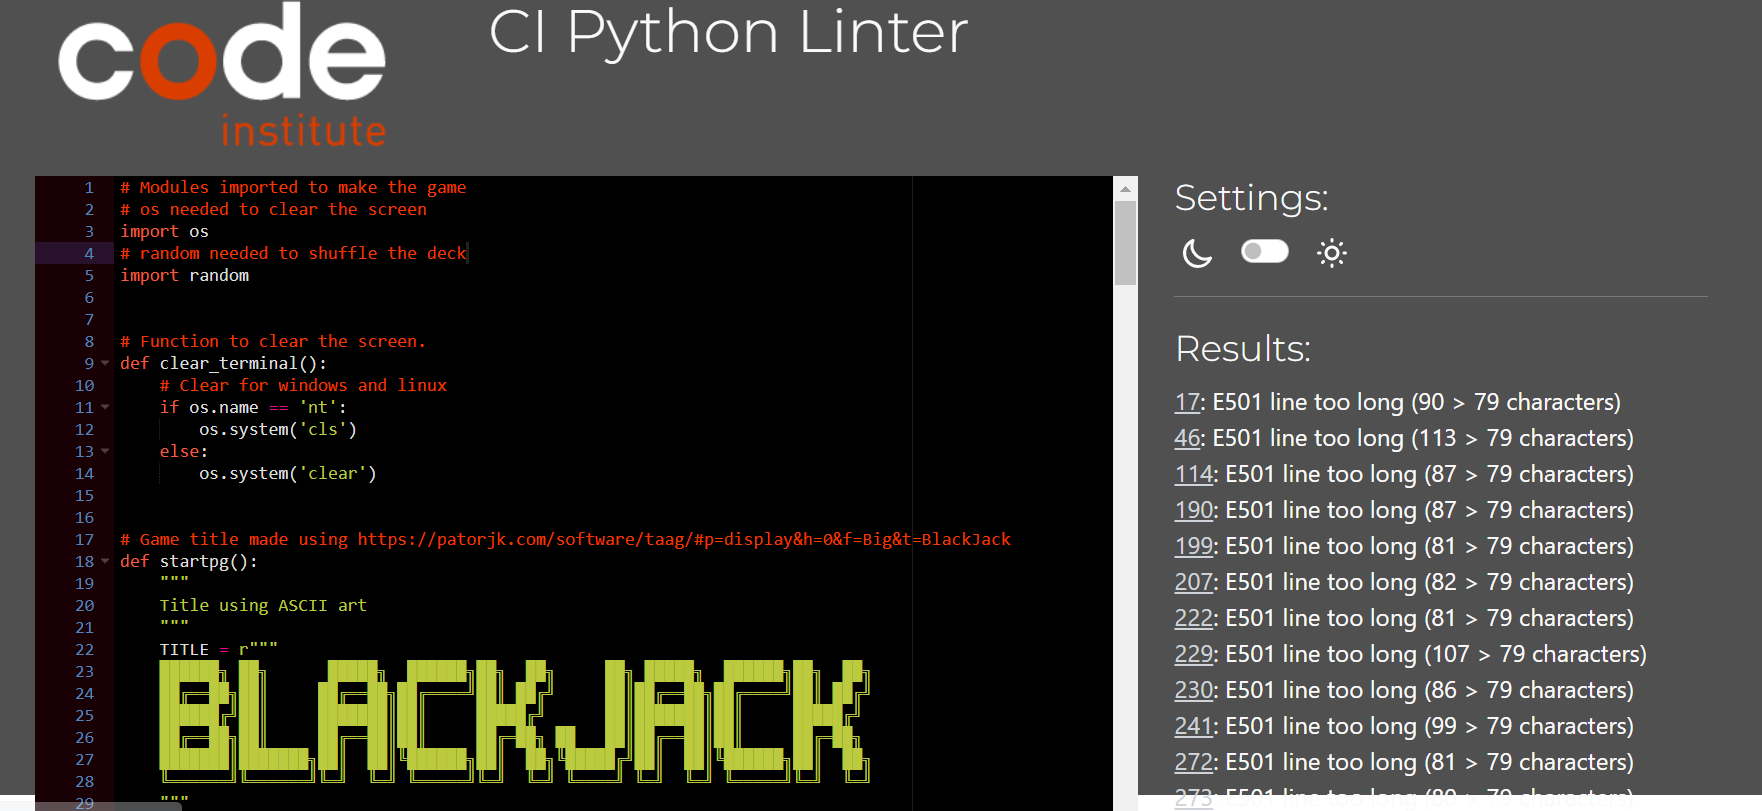
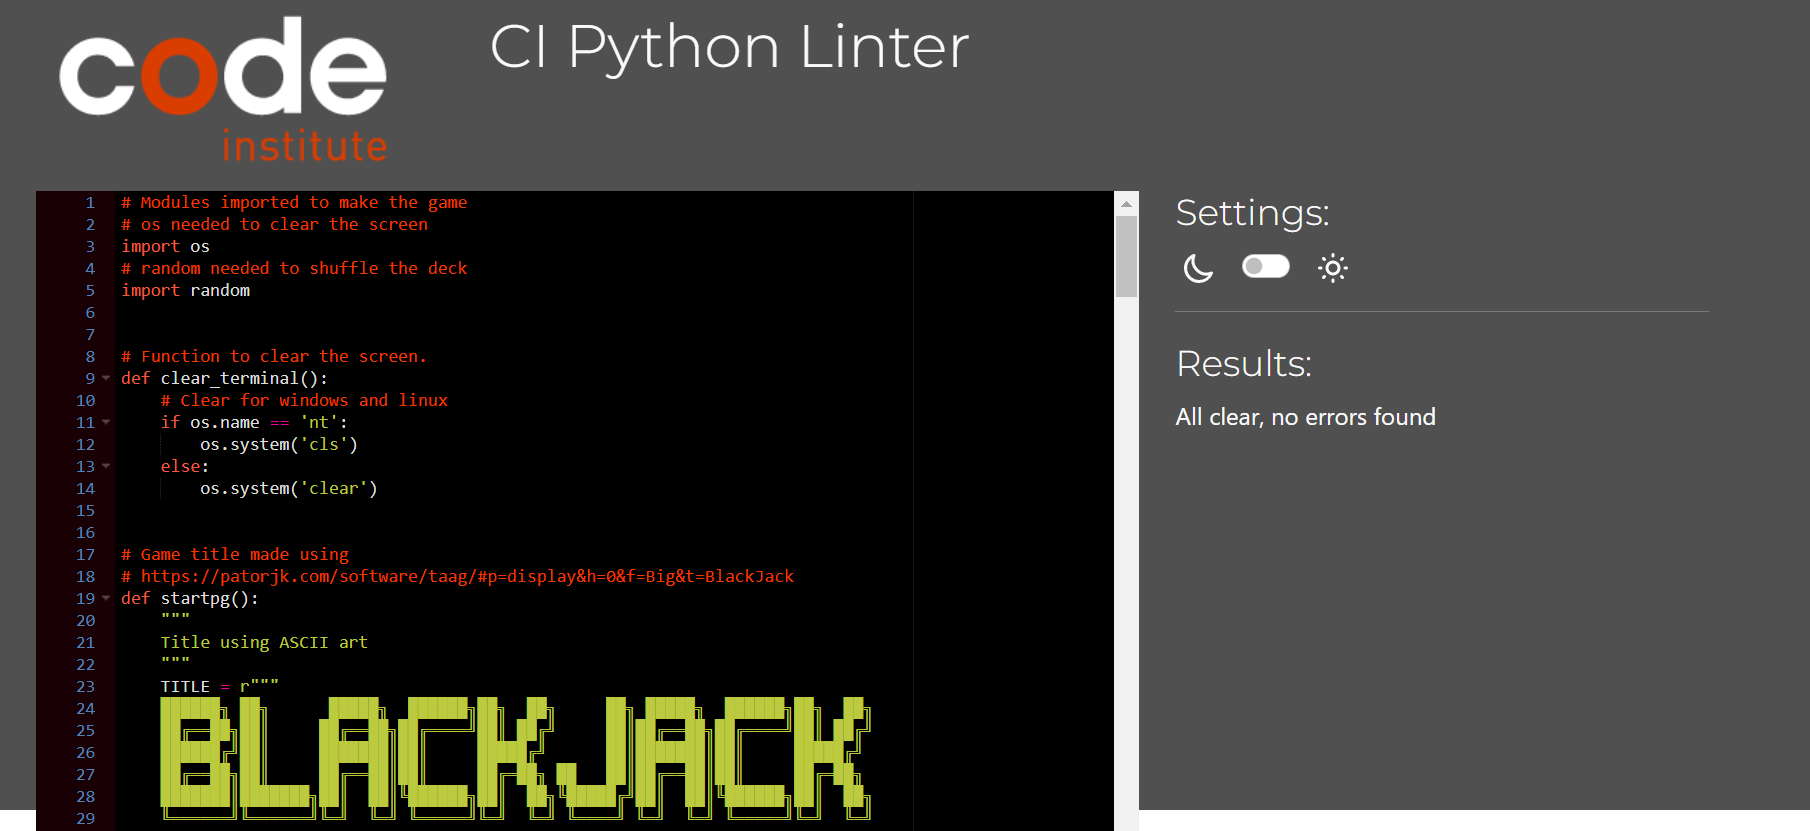
Fix the lines that were too long and change a picture for the README file

diff --git a/run.py b/run.py
@@ -14,7 +14,8 @@ def clear_terminal():
         os.system('clear')
 
 
-# Game title made using https://patorjk.com/software/taag/#p=display&h=0&f=Big&t=BlackJack
+# Game title made using
+# https://patorjk.com/software/taag/#p=display&h=0&f=Big&t=BlackJack
 def startpg():
     """
     Title using ASCII art
@@ -32,8 +33,8 @@ def startpg():
     print(TITLE)
 
 
-# Ranks and suits for the cards in the deck
-RANKS = ('2', '3', '4', '5', '6', '7', '8', '9', '10', 'J', 'Q', 'K', 'A')
+RANKS = ('2', '3', '4', '5', '6', '7', '8', '9', '10', 'J', 'Q', 'K',
+         'A')
 SUITS = ('♠', '♣', '♦', '♥')
 CARD_ASCII = {
     '♠': '♠',
@@ -43,7 +44,8 @@ CARD_ASCII = {
 }
 
 
-# Function to make the card using ASSCI art idea from https://github.com/zsonnen/blackjack/blob/master/visuals.py
+# Function to make the card using ASSCI art idea from
+# https://github.com/zsonnen/blackjack/blob/master/visuals.py
 def print_card(card):
     rank, suit = card
     # Hearts and Diamonds are red
@@ -111,7 +113,8 @@ def print_dealer_hand(hand, hide_first_card):
         print_hand_in_row(hand)
 
 
-# Calculate the value of a hand and have 2 different values for aces, J,Q,K value is 10
+# Calculate the value of a hand and have 2 different values
+# for aces, J,Q,K value is 10
 def value(hand):
     total = 0
     aces = 0
@@ -186,8 +189,9 @@ def play_game():
                 chips += bet
                 continue
 
-            # Ask the player if they want to hit or stand
-            action = input("\033[32mEnter 'h' to hit or 's' to stand:\033[0m ").lower()
+            action = input(
+                "\033[32mEnter 'h' to hit or 's' to stand:\033[0m "
+            ).lower()
             # If h is selected then add a card
             if action == 'h':
                 player_hand.append(deal_card(deck))
@@ -196,7 +200,8 @@ def play_game():
                     print("\033[31mBusted!")
                     print("You lose!\033[0m")
                     print_hand_in_row(player_hand)
-                    print("\033[31mCard value total:\033[0m", value(player_hand))
+                    print("\033[31mCard value total:\033[0m", end=' ')
+                    print(value(player_hand))
                     # Show the dealer cards if the player goes bust
                     print_dealer_hand(dealer_hand, hide_first_card=False)
                     # Chip total will change if player busts
@@ -204,7 +209,7 @@ def play_game():
                     break
             # If player decides to stand
             elif action == 's':
-                # When the dealer card is less than the player they get more cards
+                # When dealers card is less than the player they get more cards
                 while value(dealer_hand) < value(player_hand):
                     dealer_hand.append(deal_card(deck))
                 print_dealer_hand(dealer_hand, hide_first_card=False)
@@ -219,15 +224,18 @@ def play_game():
                     chips -= bet
                     break
 
-                # Check if the player has blackjack and the dealer have blackjack
+                # Check if the player has blackjack and the dealer have
+                # blackjack
                 if check_blackjack(player_hand):
                     print("Player and dealer both have blackjack!")
                     print_dealer_hand(dealer_hand, hide_first_card=False)
                     print("It's a draw!")
                     continue
 
-                # If statement for if the dealer goes bust or who total is closer to 21 deciding the winner
-                if value(dealer_hand) > 21 or value(player_hand) > value(dealer_hand):
+                # If statement for if the dealer goes bust or who's total is
+                # closer to 21 deciding the winner
+                if value(dealer_hand) > 21 or \
+                   value(player_hand) > value(dealer_hand):
                     print("You win!")
                     chips += bet
                 elif value(player_hand) == value(dealer_hand):
@@ -238,7 +246,8 @@ def play_game():
                 break
 
 
-# Print the title welcome the player give them an option list of play game, rules or exist the game
+# Print the title welcome the player give them an option list of play game,
+# rules or exist the game
 if __name__ == '__main__':
     startpg()
     # Get the players name
@@ -269,8 +278,10 @@ if __name__ == '__main__':
                 1.Aim of JackJack is to get 21 or as close to as possible.\n
                 2.Jacks, kings and queens are worth 10. \n
                 3.Ace can be either 1 or 11.\n
-                4.You get 2 cards showing dealer will recieve 1 card face down.\n
-                5.Choice is to hit or stand until you or the dealer goes bust.\n
+                4.You get 2 cards showing dealer will recieve 1 card face
+                down and 1 card face up.\n
+                5.Choice is to hit or stand until you or the dealer goes
+                bust.\n
                 6.You will start with 100 chips and can bet each hand.\n
                 7.You will be playing against the computer.""")
         # Option to quit the game

diff --git a/README.md b/README.md
@@ -125,7 +125,7 @@ There is a bug in the code that for some reason 10 are being displayed on the te
 
 - Another bug was when the dealer got blackjack it wasn't showing any of the players cards. This was also fixed.
 
-- A bug that could break the code was I wasn't checking if the user was using a positive number, this was also fixed.
+- A bug that could break the code was I wasn't checking if the user was using a positive number when betting, this was also fixed.
 
 - A lot of small and big bugs were found and all fixed to the best of my knowledge with the project.
 ***
@@ -143,43 +143,43 @@ The code was ran through the https://pep8ci.herokuapp.com/ to test for errors bu
 ***
 
 ## Deployment
-Navigate to heroku.com & log in.
+1. Navigate to heroku.com & log in.
 
-Click "new" and create a new App.
+2. Click "new" and create a new App.
 
-Give the application a name and then choose your region and Click "Create app".
+3. Give the application a name and then choose your region and Click "Create app".
 
-On the next page click on the Settings tab to adjust the settings.
+4. On the next page click on the Settings tab to adjust the settings.
 
-Click on the 'config vars' button.
+5. Click on the 'config vars' button.
 
-Supply a KEY of PORT and it's value of 8000. Then click on the "add" button.
+6. Supply a KEY of PORT and it's value of 8000. Then click on the "add" button.
 
-Buildpacks now need to be added.
+7. Buildpacks now need to be added.
 
-These install future dependancies that we need outside of the requirements file.
+8. These install future dependancies that we need outside of the requirements file.
 
-Select Python first and then node.js and click save.
+9. Select Python first and then node.js and click save.
 
-Make sure they are in this order.
+10. Make sure they are in this order.
 
-Then go to the deploy section and choose your deployment method.
+11. Then go to the deploy section and choose your deployment method.
 
-To connect with github select github and confirm.
+12. To connect with github select github and confirm.
 
-Search for your repository select it and click connect.
+13. Search for your repository select it and click connect.
 
-You can choose to either deploy using automatic deploys which means heroku will rebuild the app everytime you push your changes.
+14. You can choose to either deploy using automatic deploys which means heroku will rebuild the app everytime you push your changes.
 
-For this option choose the branch to deploy and click enable automatic deploys.
+15. For this option choose the branch to deploy and click enable automatic deploys.
 
-This can be changed at a later date to manual.
+16. This can be changed at a later date to manual.
 
-Manual deployment deploys the current state of a branch.
+17. Manual deployment deploys the current state of a branch.
 
-Click deploy branch.
+18. Click deploy branch.
 
-We can now click on the open App button above to view our application.
+19. We can now click on the open App button above to view our application.
 ***
 
 ## Credits 
